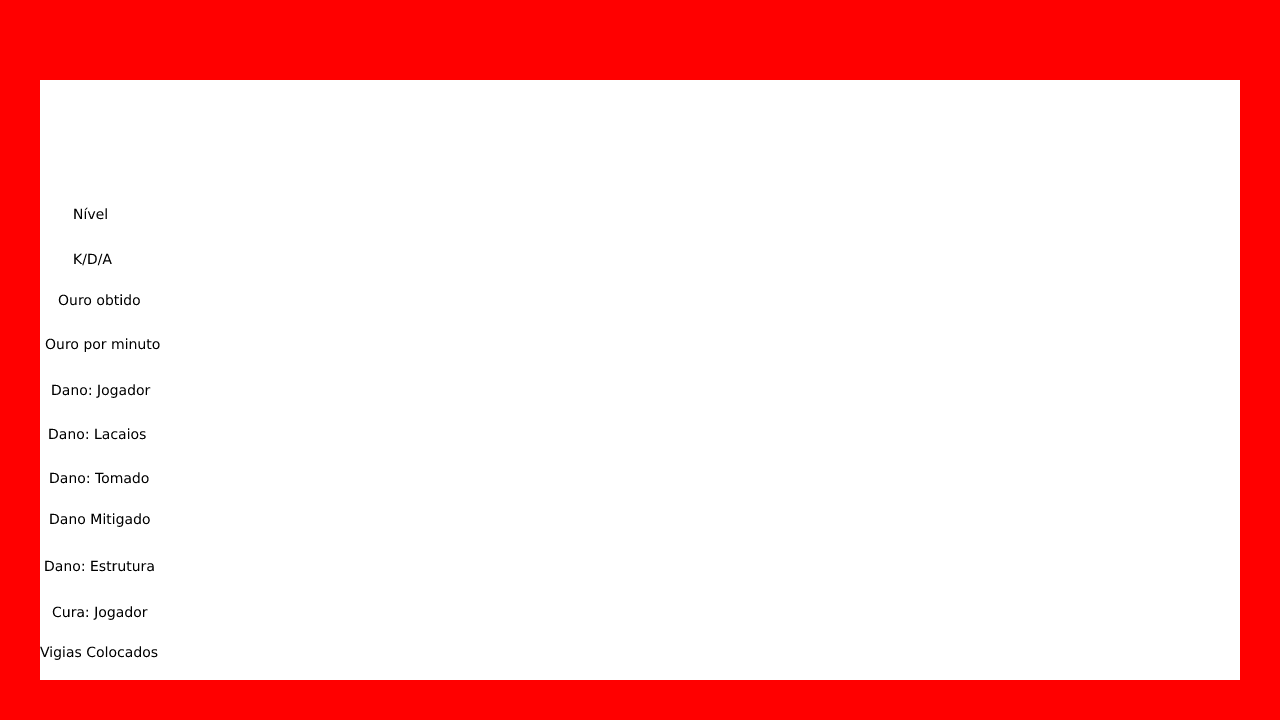
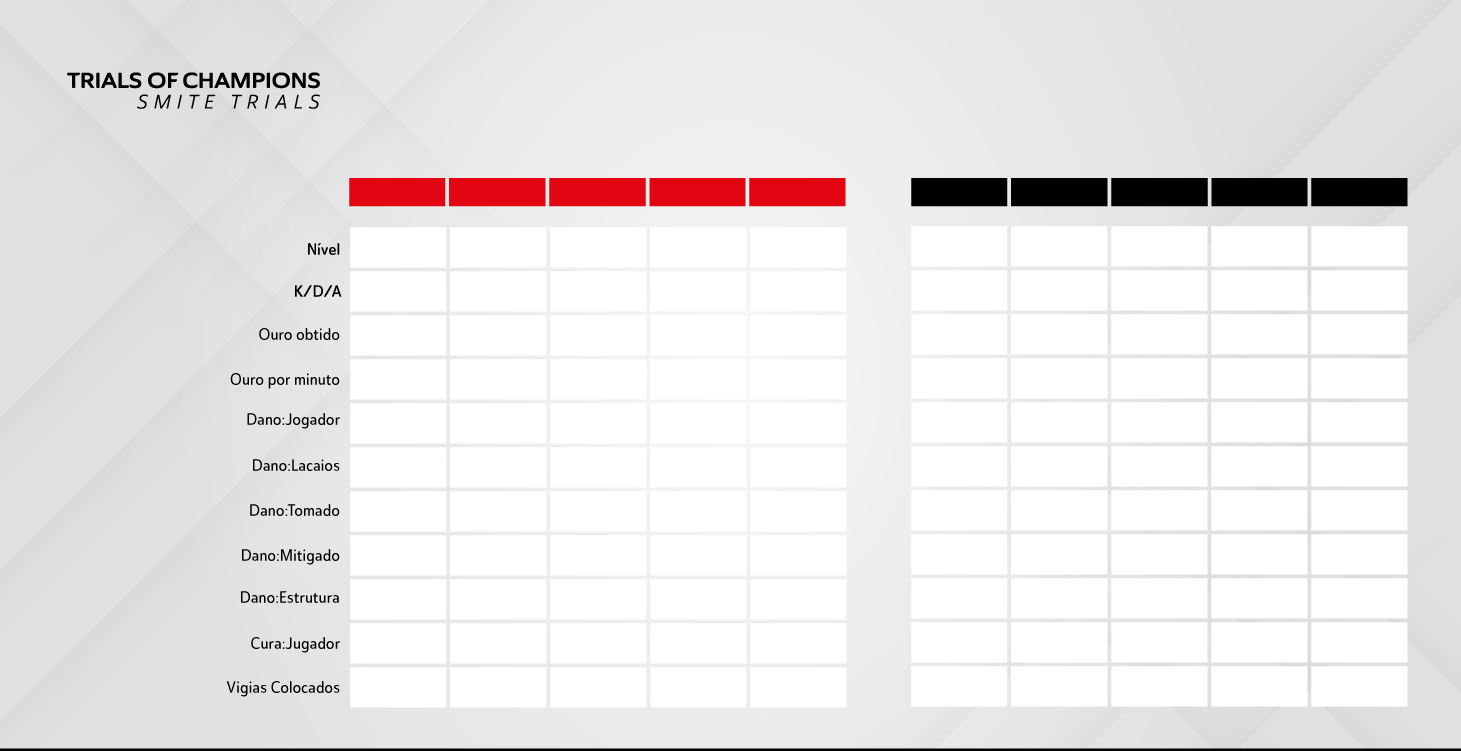
image command update

diff --git a/imgcreation.py b/imgcreation.py
@@ -43,8 +43,10 @@ def pega_stat_img(game, stat_id, champions, itens):
         for champ in champions:
             if champ["id"] == stat_id:
                 url = champ["ChampionIcon_URL"]
+                ischampions = True
                 try:
-                    forma_img_2x1(url)
+                    img = forma_img_2x1(url)
+                    return img
                 except:
                     pass
                 break
@@ -55,7 +57,8 @@ def pega_stat_img(game, stat_id, champions, itens):
             if champ["id"] == stat_id:
                 url = champ["godIcon_URL"]
                 try:
-                    forma_img_1x1(url)
+                    img = forma_img_1x1(url)
+                    return img
                 except:
                     pass
                 break
@@ -112,7 +115,7 @@ def itens_paste(game, stat_id_list, bkg, champions, itens):
 
 def icons_paste(game, icon_id_list, bkg, champions, itens):
     if game == "paladins":
-        box = [40, 100]  # Aonde os ícones vão começar a ser colados
+        box = [100, 134]  # Aonde os ícones vão começar a ser colados
         line_count = 0  # Contagem de linhas, para fazer o espaçamento
         size = (96, 48)  # Tamano que os ícones serão dimensionados
         height = 60  # Altura entre um ícone e outro
@@ -125,13 +128,13 @@ def icons_paste(game, icon_id_list, bkg, champions, itens):
             bkg.paste(icon_img, new_box)  # Cola na imagem base
             line_count += 1
     elif game == "smite":
-        box = [162, 80]  # Aonde os ícones vão começar a ser colados
+        box = [350, 60]  # Aonde os ícones vão começar a ser colados
         collum_count = 0  # Contagem de colunas, para fazer o espaçamento
         size = (96, 96)  # Tamano que os ícones serão dimensionados
         lenght = 100  # Distância horizontal entre um ícone e outro
         for icon_id in icon_id_list:  # Passa entre todos os ids dos ícones
             if collum_count == 5:  # Quando a coluna for 5, ou seja, quando passar para o outro time
-                box[0] += 84   # Espaço a mais entre um time e outro
+                box[0] += 62  # Espaço a mais entre um time e outro
             new_box = [box[0] + lenght * collum_count, box[1]]  # Cria a box de colagem levando em conta as colunas
             icon_img = pega_stat_img(game, icon_id, champions, itens)  # Transforma o Id em imagem pela função
             icon_img = icon_img.resize(size)  # Redimensiona a imagem
@@ -143,7 +146,7 @@ def teams_paste(game, teams_list, bkg):
     font = ImageFont.truetype("./fonts/Arial.ttf", 16)  # Define a fonte do stat
     draw = ImageDraw.Draw(bkg)  # Método para "desenhar" o stat na imagem
     if game == "paladins":
-        start_box = [176, 116]  # Aonde os times vão começar a ser colados
+        start_box = [220, 150]  # Aonde os times vão começar a ser colados
         line_count = 0  # Contagem de linhas, para fazer o espaçamento
         index = 0  # index para poder saber quando trocar de um time pro outro e quando parar de colar os times
 
@@ -168,36 +171,49 @@ def stats_paste(game, stats_list, bkg):
     font = ImageFont.truetype("./fonts/Arial.ttf", 16)  # Define a fonte do stat
     draw = ImageDraw.Draw(bkg)  # Método para "desenhar" o stat na imagem
     if game == "paladins":
-        length = [0, 276, 392, 528, 588, 692, 812, 932]  # As distâncias horizontais entres os stats
+        length = [0, 296, 422, 548, 608, 712, 832, 952]  # As distâncias horizontais entres os stats
         count = 8  # Contagem total de stats para saber quando passar para o próximo player
-        start_box = [260, 116]  # Aonde os stats vão começar a ser colados
+        start_box = [300, 153]  # Aonde os stats vão começar a ser colados
         for stat in stats_list:  # percorre todos os stats (str)
+            plus = 0  # Número para centralizar os stats de kda
             if line_count == 4 and collum_count == 8:  # Quando passar de um time pro outro
                 start_box[1] += 12  # Coloca o espaçamento entre os times
             if collum_count == count:  # Quando chega no último stat do player
                 collum_count = 0  # Reseta a contagem de colunas
                 line_count += 1  # Passa pro próximo player
-            box = [start_box[0] + length[collum_count], start_box[1] + 60 * line_count]  # Cria a box de colagem
-            draw.text(box, str(stat), (255, 255, 255), font)  # Desenha o stat
+            if collum_count == 2:
+                if len(stat) == 7:
+                    plus = 5
+                elif len(stat) == 6:
+                    plus = 10
+                elif len(stat) == 5:
+                    plus = 13
+            box = [start_box[0] + length[collum_count] + plus, start_box[1] + 60 * line_count]  # Cria a box de colagem
+            draw.text(box, str(stat), (0, 0, 0), font)  # Desenha o stat
             collum_count += 1
     elif game == "smite":
         length = 100  # A distância horizontal entres os stats
         height = 44  # A distância vertical entre os players
         count = 11  # Número de stats por player
-        start_box = [190, 204]  # Aonde os stats vão começar a ser colados
+        start_box = [380, 240]  # Aonde os stats vão começar a ser colados
         for stat in stats_list:  # percorre todos os stats (str)
             if line_count == count:  # Quando chega no último stat do player
                 collum_count += 1  # Passa pra póxima coluna
                 line_count = 0  # Reseta a contagem de linhas
             if line_count == 0:  # Quando for o primeiro stat a ser colado
-                lvl = 10  # Coloca essa distância, pois o lvl precisa de uma distância a mais pra ser colado
+                plus = 10  # Coloca essa distância, pois o lvl precisa de uma distância a mais pra ser colado
                 if collum_count == 5:  # Quando chegar no primeiro player do próximo time
-                    start_box[0] += 84  # Colcoa a distância entre os times
-            box = [start_box[0] + length * collum_count + lvl, start_box[1] + height * line_count]
+                    start_box[0] += 62  # Colcoa a distância entre os times
+            elif line_count == 1:
+                if len(stat) >= 8:
+                    plus = -8
+            elif line_count == 3:
+                plus = 8
+            box = [start_box[0] + length * collum_count + plus, start_box[1] + height * line_count]
             # Cria o box de colagem
             draw.text(box, str(stat), (0, 0, 0), font)  # Desenha o stat na imagem
             line_count += 1
-            lvl = 0  # Reseta a distância do lvl pra não dar problema de colagem errada
+            plus = 0  # Reseta a distância do lvl pra não dar problema de colagem errada
 
 
 def nicks_paste(game, nicks_list, bkg):
@@ -207,7 +223,7 @@ def nicks_paste(game, nicks_list, bkg):
     elif game == "smite":
         collum_count = 0  # Contagem de colunas para fazer o espaçamento
         length = 100  # Distância horizontal entre os nomes
-        start_box = [162, 180]  # Aonde os nomes vão começar a ser colados
+        start_box = [350, 185]  # Aonde os nomes vão começar a ser colados
         font = ImageFont.truetype("./fonts/Arial.ttf", 12)  # Define a fonte dos nicks
         draw = ImageDraw.Draw(bkg)  # Método para "desenhar" o stat na imagem
         for nick in nicks_list:  # Pra cada nick na lista
@@ -224,9 +240,9 @@ def nicks_paste(game, nicks_list, bkg):
             else:
                 len_nick = 6
             if collum_count == 5:  # Quando chegar no sexto player, ou seja, primeiro jogador do time perdedor
-                start_box[0] += 84  # Distância entre os times
+                start_box[0] += 62  # Distância entre os times
             box = [start_box[0] + length * collum_count + len_nick, start_box[1]]  # Cria a box para colagem
-            draw.text(box, str(nick), (0, 0, 0), font)  # Desenha na imagem
+            draw.text(box, str(nick), (255, 255, 255), font)  # Desenha na imagem
             collum_count += 1
 
 
@@ -240,7 +256,7 @@ Obs. 2: O jogo é diferenciado pela variável game, que é o nome do jogo em uma
 
 def create_stats_img(game, icons_id_list, nicks_list, stats_list, teams_list, champions, itens):
     if game == "paladins":
-        bkg = Image.open("./images/bkg.png")  # Abre a imagem
+        bkg = Image.open("./images/bkg-paladins.png")  # Abre a imagem
         icons_paste(game, icons_id_list, bkg, champions, itens)  # Cola os ícones
         teams_paste(game, teams_list, bkg)  # Cola os times
         stats_paste(game, stats_list, bkg)  # Cola os stats e os nomes

diff --git a/trialsbot.py b/trialsbot.py
@@ -31,6 +31,8 @@ session_id_smite = smite_req._createSession()
 #print(smite_req.getMatch(1157950731))
 paladins_champions = paladins_req.getChampions()  # Instancia lista de campeões
 paladins_itens = paladins_req.getItems()  # Instancia lista de itens
+if paladins_itens == None:
+    paladins_itens = paladins_req.getItems()
 smite_gods = smite_req.getGods()
 smite_itens = smite_req.getItems()
 
@@ -60,11 +62,13 @@ async def on_message(message):  # Ao receber mensagem
                                           '.stats-paladins ou .stats-smite')
         embed.add_field(name=".stats", value="Retorna o arquivo de texto com todos os stats da partida")
         embed.add_field(name=".id", value="Retorna os Id's de todos os jogadores, com exceção dos perfil privados")
-        embed.add_field(name=".id", value="Retorna o Id do nick enviado")
+        embed.add_field(name=".playerid", value="Retorna o Id do nick enviado")
         embed.add_field(name=".replay",
                         value="Renorna os players da partida pra conferência, junto com a informação de caso a "
                               "partida tenha Replay ou não")
         embed.add_field(name=".image (Pré-alpha)", value="Retorna a imagem dos stats da partida")
+        embed.add_field(name=".winner", value="define o time vencedor para colagem nas imagems (Máx de 3 letras)")
+        embed.add_field(name=".loser", value="define o time perdedor para colagem nas imagems (Máx de 3 letras)")
         await message.channel.send(content=None, embed=embed)
 
     if message.content.find(".image") != -1:  # Retona imagem dos resultados
@@ -417,6 +421,7 @@ def cria_kda_stats(player, kda_list):
         else:  # Se for o do meio, printa as barras junto
             kda_stat += "/" + str(player[stat]) + "/"
         index += 1
+    return kda_stat
 
 
 def cria_stats_list(match_inf, stats_reference_1, stats_reference_2, stats_reference_3):
@@ -443,6 +448,7 @@ def cria_imagem(match_id, game):
     # Caso seja Paladins
     if game == paladins_req:
         match_inf = paladins_req.getMatch(match_id)  # Instancia os stats da partida
+        print(match_inf)
         stats_reference_1 = ["playerName", "Gold_Earned"]
         stats_reference_2 = ["Kills_Player", "Deaths", "Assists"]
         stats_reference_3 = ["Killing_Spree", "Objective_Assists", "Damage_Player", "Damage_Mitigated", "Healing"]
@@ -451,14 +457,14 @@ def cria_imagem(match_id, game):
         for player in match_inf:  # Pra cada jogador
             icons_id_list.append(player["ChampionId"])  # adiciona Id do champ na lista
 
-        #Cria a lista de stats
-        stats_list = cria_stats_list(match_inf, stats_reference_1, stats_reference_2, stats_reference_3)
+            # Cria a lista de stats
+            stats_list = cria_stats_list(match_inf, stats_reference_1, stats_reference_2, stats_reference_3)
 
         # Passa as infos pra outro arquivo montar a imagem
         create_stats_img("paladins", icons_id_list, nicks_list, stats_list, teams_list,
                          paladins_champions, paladins_itens)
 
-    #Caso seja smite
+    # Caso seja smite
     elif game == smite_req:
         match_inf = smite_req.getMatch(match_id)
         stats_reference_1 = "Final_Match_Level"
@@ -469,7 +475,7 @@ def cria_imagem(match_id, game):
 
         for player in match_inf:  # Pra cada jogador
             icons_id_list.append(player["GodId"])  # adiciona Id do god na lista
-
+            nicks_list.append(player["hz_player_name"])
         # Cria a lista de stats
         stats_list = cria_stats_list(match_inf, stats_reference_1, stats_reference_2, stats_reference_3)
 
